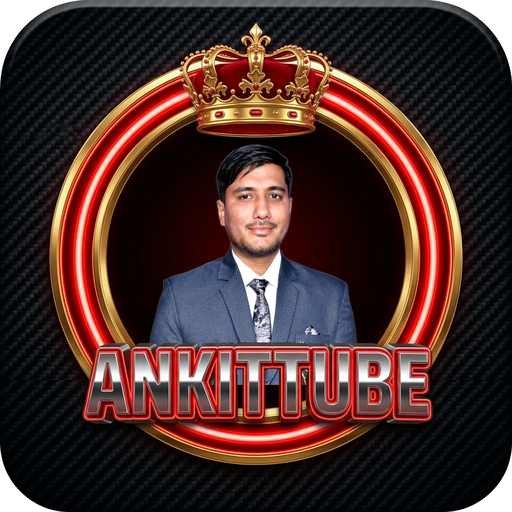
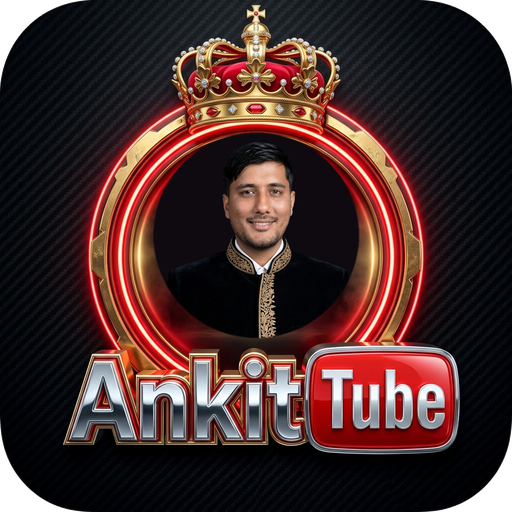
Finalize luxury royal velvet branding and 3D AnkitTube typography with automated build engine

diff --git a/scripts/generate_sample_assets.py b/scripts/generate_sample_assets.py
@@ -47,8 +47,14 @@ if __name__ == "__main__":
     base_dir = os.path.dirname(os.path.dirname(os.path.abspath(__file__)))
     assets_dir = os.path.join(base_dir, "assets")
     
-    # App Icon: Vibrant Crimson / Deep Red Gradient Style
-    create_rounded_icon(os.path.join(assets_dir, "app_icon.png"), (220, 20, 60), symbol_type="play")
-    
-    # Plugin Icon: Sleek Tech Blue / Indigo
-    create_rounded_icon(os.path.join(assets_dir, "plugin_icon.png"), (30, 144, 255), symbol_type="plugin")
+    app_icon_path = os.path.join(assets_dir, "app_icon.png")
+    if not os.path.exists(app_icon_path):
+        create_rounded_icon(app_icon_path, (220, 20, 60), symbol_type="play")
+    else:
+        print(f"Preserving existing custom branding icon: {app_icon_path}")
+        
+    plugin_icon_path = os.path.join(assets_dir, "plugin_icon.png")
+    if not os.path.exists(plugin_icon_path):
+        create_rounded_icon(plugin_icon_path, (30, 144, 255), symbol_type="plugin")
+    else:
+        print(f"Preserving existing custom plugin icon: {plugin_icon_path}")

diff --git a/README.md b/README.md
@@ -47,13 +47,13 @@ custom-tube-builder/
 `config.json` फाइल खोलें और अपनी इच्छा अनुसार वैल्यूज बदलें:
 ```json
 {
-  "app_name": "MeraTube",
-  "app_package_name": "com.meratube.android",
-  "developer_name": "Rahul Sharma",
-  "contact_number": "+91 9876543210",
-  "contact_email": "support@meratube.com",
-  "website_or_social": "https://t.me/mychannel",
-  "plugin_app_name": "MeraTube Core Services"
+  "app_name": "AnkitTube",
+  "app_package_name": "com.ankitchaudhary.ankittube",
+  "developer_name": "ankitchaudhary",
+  "contact_number": "8533955333, 89006518960",
+  "contact_email": "ankitchaudhary564@gmail.com",
+  "website_or_social": "https://t.me/ankittube",
+  "plugin_app_name": "AnkitTube Core Services"
 }
 ```
 
